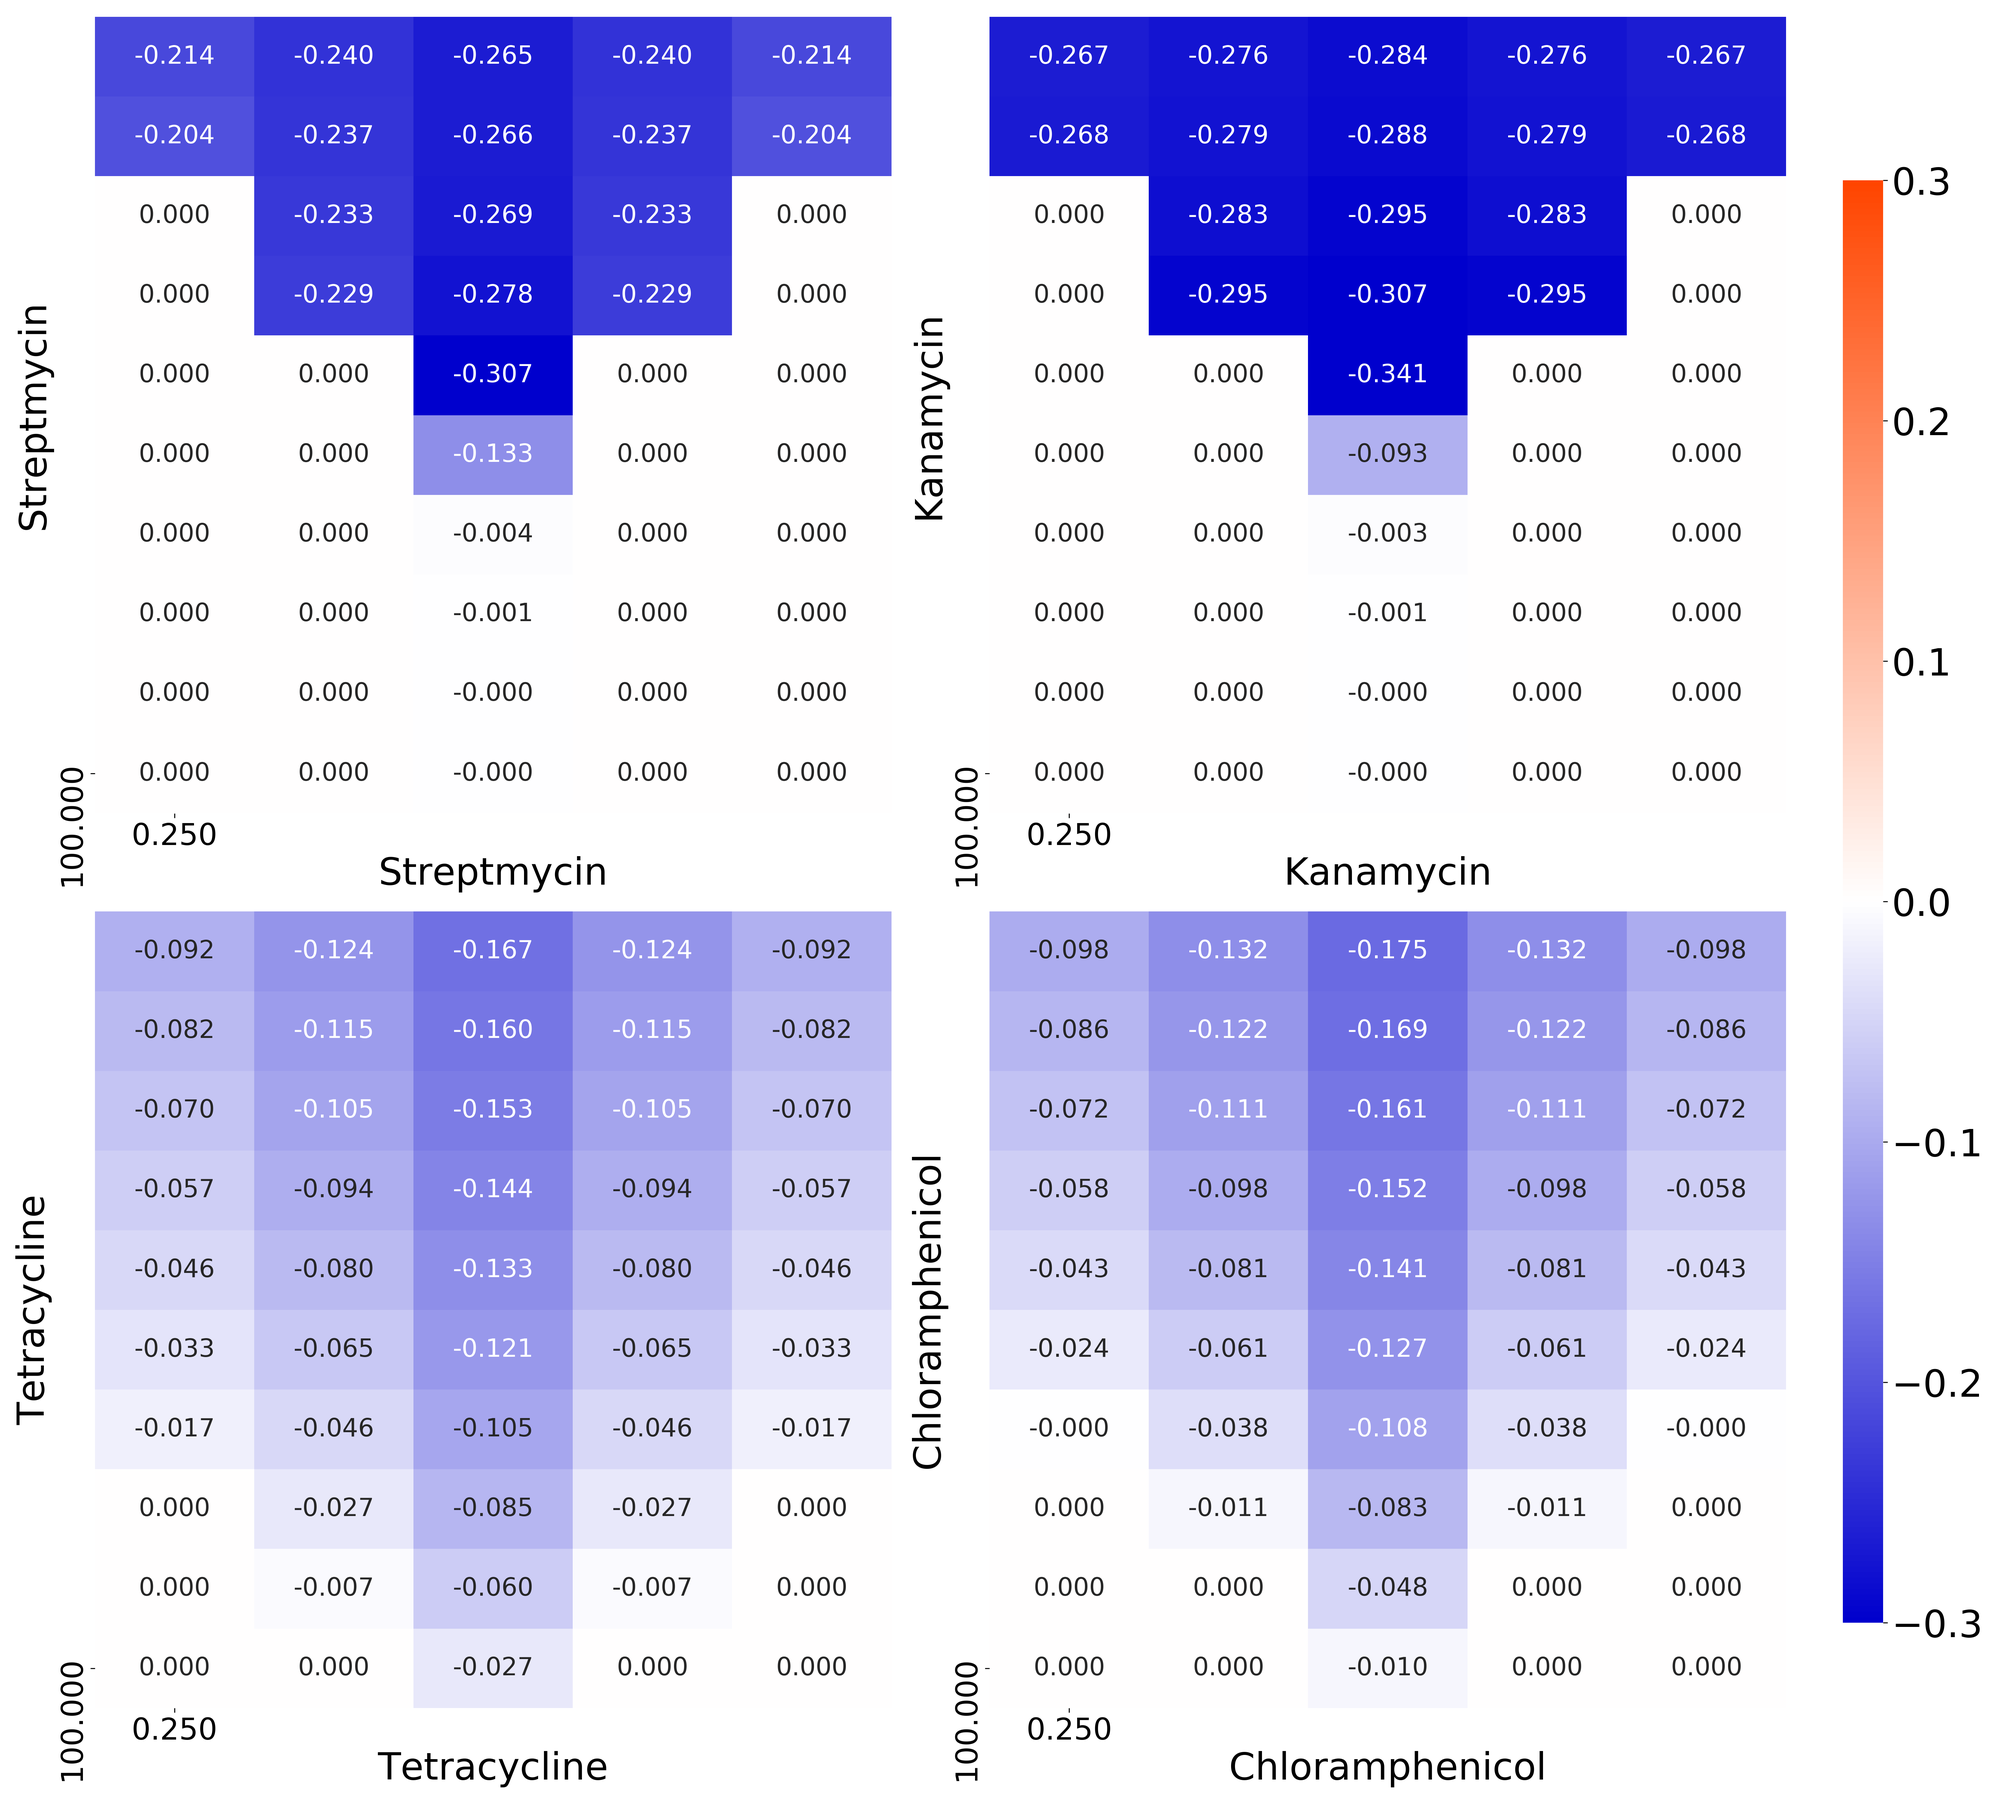
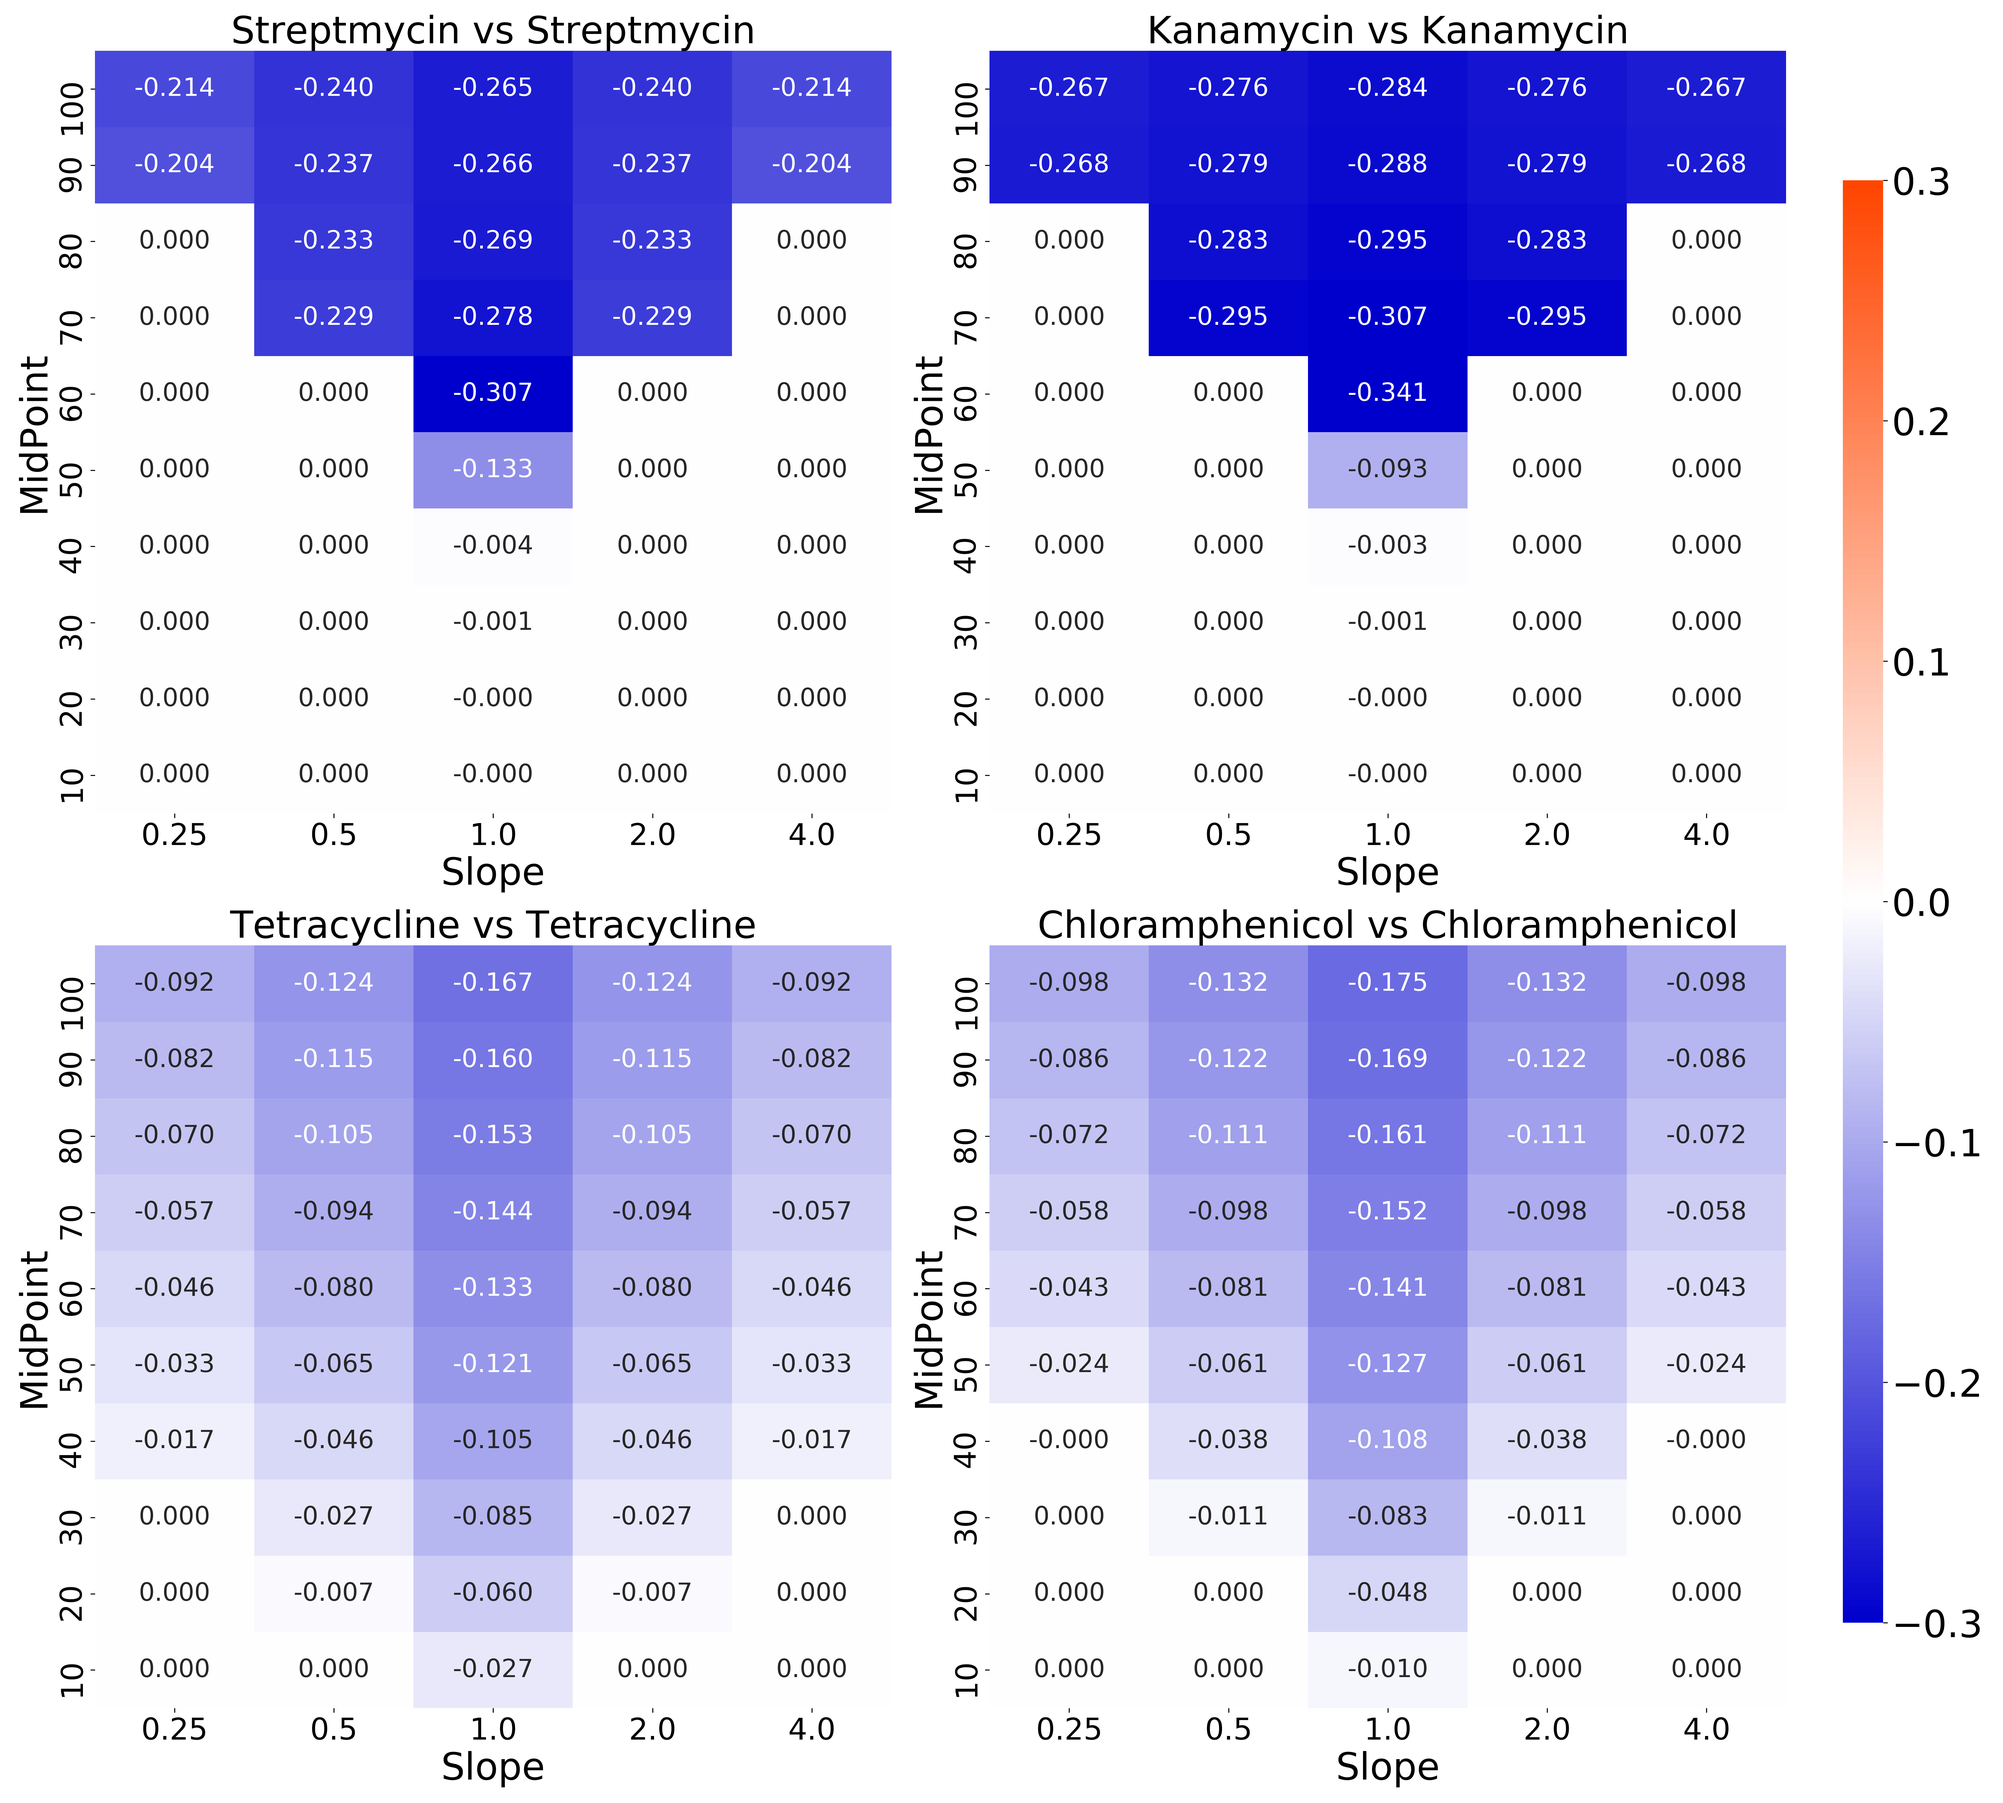
newevalの画像修正
画像の軸とタイトルが間違っていたため，再実行して修正

diff --git a/run_ribo5.py b/run_ribo5.py
@@ -3,11 +3,11 @@ from modules import *
 
 if __name__ == "__main__":
     drugNames = ["Streptmycin", "Kanamycin", "Tetracycline", "Chloramphenicol"]
-    drugNameList = list(itr.combinations_with_replacement(drugNames, 2))
-    csvdir = "results/ribo5/csv/sim100"
     
     # combinatorial simulation
     ## merge DataFiles
+    # drugNameList = list(itr.combinations_with_replacement(drugNames, 2))
+    # csvdir = "results/ribo5/csv/sim100"
     # for modif in range(1, 3):
     #     for drugName in drugNameList:
     #         dirName = "{}/modif{}/{}".format(csvdir, modif, "_".join(drugName))
@@ -81,26 +81,26 @@ if __name__ == "__main__":
 
     # oldeval simulation (virtual drug)
     ## merge DataFiles
-    drugNameList = [["Streptmycin", "Streptmycin"], ["Streptmycin", "Chloramphenicol"], ["Chloramphenicol", "Chloramphenicol"]]
-    targetList = [["30s", "30s"], ["30s", "50s"]]
-    nameList = [["{}{}".format(drugName[0], target[0]), "{}{}".format(drugName[1], target[1])] for drugName in drugNameList for target in targetList]
-    csvdir = "results/ribo5/csv/old100_v"
-    for modif in range(1, 3):
-        for name in nameList:
-            dirName = "{}/modif{}/{}".format(csvdir, modif, "_".join(name))
-            fileNameList = ["{}/{}.csv".format(dirName, num) for num in range(101)]
-            df = mergeResults(fileNameList)
-            df.to_csv("{}_merge.csv".format(dirName), index=False)
+    # drugNameList = [["Streptmycin", "Streptmycin"], ["Streptmycin", "Chloramphenicol"], ["Chloramphenicol", "Chloramphenicol"]]
+    # targetList = [["30s", "30s"], ["30s", "50s"]]
+    # nameList = [["{}{}".format(drugName[0], target[0]), "{}{}".format(drugName[1], target[1])] for drugName in drugNameList for target in targetList]
+    # csvdir = "results/ribo5/csv/old100_v"
+    # for modif in range(1, 3):
+    #     for name in nameList:
+    #         dirName = "{}/modif{}/{}".format(csvdir, modif, "_".join(name))
+    #         fileNameList = ["{}/{}.csv".format(dirName, num) for num in range(101)]
+    #         df = mergeResults(fileNameList)
+    #         df.to_csv("{}_merge.csv".format(dirName), index=False)
             
     ## create Image
-    drugNameList = [["Streptmycin", "Streptmycin"], ["Streptmycin", "Chloramphenicol"], ["Chloramphenicol", "Chloramphenicol"]]
-    targetList = [["30s", "30s"], ["30s", "50s"]]
-    nameList = [["{}{}".format(drugName[0], target[0]), "{}{}".format(drugName[1], target[1])] for target in targetList for drugName in drugNameList]
-    csvdir = "results/ribo5/csv/old100_v"
-    for modif in range(1, 3):
-        dataLists = ["{}/modif{}/{}_merge.csv".format(csvdir, modif, "_".join(name)) for name in nameList]
-        saveName = "results/ribo5/images/virtualDrug_old100_modif{}.png".format(modif)
-        createHeatmap(nameList, dataLists, [3, 2], saveName, simType="epsilon")
+    # drugNameList = [["Streptmycin", "Streptmycin"], ["Streptmycin", "Chloramphenicol"], ["Chloramphenicol", "Chloramphenicol"]]
+    # targetList = [["30s", "30s"], ["30s", "50s"]]
+    # nameList = [["{}{}".format(drugName[0], target[0]), "{}{}".format(drugName[1], target[1])] for target in targetList for drugName in drugNameList]
+    # csvdir = "results/ribo5/csv/old100_v"
+    # for modif in range(1, 3):
+    #     dataLists = ["{}/modif{}/{}_merge.csv".format(csvdir, modif, "_".join(name)) for name in nameList]
+    #     saveName = "results/ribo5/images/virtualDrug_old100_modif{}.png".format(modif)
+    #     createHeatmap(nameList, dataLists, [3, 2], saveName, simType="epsilon")
     
     # neweval simulation
     ## merge DataFiles
@@ -114,20 +114,20 @@ if __name__ == "__main__":
     #         df.to_csv("{}_merge.csv".format(dirName), index=False)
 
     ## SameDrug combination
-    # drugNameList = [[name, name] for name in drugNames]
-    # csvdir = "results/ribo5/csv/new100"
-    # for modif in range(1, 3):
-    #     dataLists = ["{}/modif{}/{}_merge.csv".format(csvdir, modif, "_".join(i)) for i in drugNameList]
-    #     saveName = "results/ribo5/images/sameDrug_new100_modif{}.png".format(modif)
-    #     createHeatmap(drugNameList, dataLists, [2, 2], saveName, xy=["Slope", "MidPoint"], simType="LinerType")
+    drugNameList = [[name, name] for name in drugNames]
+    csvdir = "results/ribo5/csv/new100"
+    for modif in range(1, 3):
+        dataLists = ["{}/modif{}/{}_merge.csv".format(csvdir, modif, "_".join(i)) for i in drugNameList]
+        saveName = "results/ribo5/images/sameDrug_new100_modif{}.png".format(modif)
+        createHeatmap(drugNameList, dataLists, [2, 2], saveName, xy=["Slope", "MidPoint"], simType="LinerType")
     
     ## diffDrug combination
-    # drugNameList = list(itr.combinations(drugNames, 2))
-    # csvdir = "results/ribo5/csv/new100"
-    # for modif in range(1, 3):
-    #     dataLists = ["{}/modif{}/{}_merge.csv".format(csvdir, modif, "_".join(i)) for i in drugNameList]
-    #     saveName = "results/ribo5/images/diffDrug_new100_modif{}.png".format(modif)
-    #     createHeatmap(drugNameList, dataLists, [3, 2], saveName, xy=["Slope", "MidPoint"], simType="LinerType")
+    drugNameList = list(itr.combinations(drugNames, 2))
+    csvdir = "results/ribo5/csv/new100"
+    for modif in range(1, 3):
+        dataLists = ["{}/modif{}/{}_merge.csv".format(csvdir, modif, "_".join(i)) for i in drugNameList]
+        saveName = "results/ribo5/images/diffDrug_new100_modif{}.png".format(modif)
+        createHeatmap(drugNameList, dataLists, [3, 2], saveName, xy=["Slope", "MidPoint"], simType="LinerType")
 
     # neweval simulation (virtual drug)
     ## merge DataFiles
@@ -143,14 +143,14 @@ if __name__ == "__main__":
     #         df.to_csv("{}_merge.csv".format(dirName), index=False)
             
     ## create Image
-    # drugNameList = [["Streptmycin", "Streptmycin"], ["Streptmycin", "Chloramphenicol"], ["Chloramphenicol", "Chloramphenicol"]]
-    # targetList = [["30s", "30s"], ["30s", "50s"]]
-    # nameList = [["{}{}".format(drugName[0], target[0]), "{}{}".format(drugName[1], target[1])] for target in targetList for drugName in drugNameList]
-    # csvdir = "results/ribo5/csv/new100_v"
-    # for modif in range(1, 3):
-    #     dataLists = ["{}/modif{}/{}_merge.csv".format(csvdir, modif, "_".join(name)) for name in nameList]
-    #     saveName = "results/ribo5/images/virtualDrug_new100_modif{}.png".format(modif)
-    #     createHeatmap(nameList, dataLists, [3, 2], saveName, xy=["Slope", "MidPoint"], simType="LinerType")
+    drugNameList = [["Streptmycin", "Streptmycin"], ["Streptmycin", "Chloramphenicol"], ["Chloramphenicol", "Chloramphenicol"]]
+    targetList = [["30s", "30s"], ["30s", "50s"]]
+    nameList = [["{}{}".format(drugName[0], target[0]), "{}{}".format(drugName[1], target[1])] for target in targetList for drugName in drugNameList]
+    csvdir = "results/ribo5/csv/new100_v"
+    for modif in range(1, 3):
+        dataLists = ["{}/modif{}/{}_merge.csv".format(csvdir, modif, "_".join(name)) for name in nameList]
+        saveName = "results/ribo5/images/virtualDrug_new100_modif{}.png".format(modif)
+        createHeatmap(nameList, dataLists, [3, 2], saveName, xy=["Slope", "MidPoint"], simType="LinerType")
        
 
 

diff --git a/run_ribo7.py b/run_ribo7.py
@@ -116,15 +116,15 @@ if __name__ == "__main__":
 
     # neweval simulation (virtual drug)
     ## merge DataFiles
-    drugNameList = [["Streptmycin", "Streptmycin"], ["Streptmycin", "Chloramphenicol"], ["Chloramphenicol", "Chloramphenicol"]]
-    targetList = [["r30", "r30"], ["r30", "r50"]]
-    csvdir = "results/ribo7/csv/new100_v"
-    nameList = [["{}{}".format(drugName[0], target[0]), "{}{}".format(drugName[1], target[1])] for drugName in drugNameList for target in targetList]
-    for name in nameList:
-        dirName = "{}/{}".format(csvdir, "_".join(name))
-        fileNameList = ["{}/{}.csv".format(dirName, num) for num in range(5)]
-        df = mergeResults(fileNameList)
-        df.to_csv("{}/{}_merge.csv".format(csvdir, "_".join(name)), index=False)
+    # drugNameList = [["Streptmycin", "Streptmycin"], ["Streptmycin", "Chloramphenicol"], ["Chloramphenicol", "Chloramphenicol"]]
+    # targetList = [["r30", "r30"], ["r30", "r50"]]
+    # csvdir = "results/ribo7/csv/new100_v"
+    # nameList = [["{}{}".format(drugName[0], target[0]), "{}{}".format(drugName[1], target[1])] for drugName in drugNameList for target in targetList]
+    # for name in nameList:
+    #     dirName = "{}/{}".format(csvdir, "_".join(name))
+    #     fileNameList = ["{}/{}.csv".format(dirName, num) for num in range(5)]
+    #     df = mergeResults(fileNameList)
+    #     df.to_csv("{}/{}_merge.csv".format(csvdir, "_".join(name)), index=False)
 
     ## createImage
     drugNameList = [["Streptmycin", "Streptmycin"], ["Streptmycin", "Chloramphenicol"], ["Chloramphenicol", "Chloramphenicol"]]
